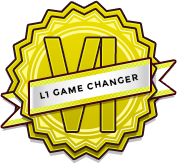
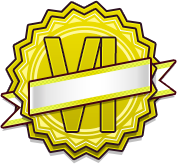
fixes #419; badge titles are now generated from the back-end

Changed region(s): [[0.226, 0.4268, 0.791, 0.6098]]

diff --git a/app/assets/stylesheets/dashboard/welcome.scss b/app/assets/stylesheets/dashboard/welcome.scss
@@ -242,16 +242,10 @@
       }
 
       div.badge {
-        width: 100%;
         height: 0;
-        position: relative;
-      }
-
-      img.badge {
         z-index: 50;
         position: absolute;
-        right: -90px;
-        width: 130px;
+        right: -80px;
         top: -40px;
 
         &.half {
@@ -261,6 +255,22 @@
         &.full {
           bottom: -70px;
         }
+
+        .title {
+          color: #232323;
+          font-size: 7pt;
+          position: absolute;
+          right: 19px;
+          top: 58px;
+          z-index: 999;
+          transform: rotate(-11deg);
+          width: 93px;
+          text-align: center;
+        }
+      }
+
+      img.badge {
+        width: 130px;
       }
 
       .course-requirement-message {

diff --git a/app/assets/javascripts/dashboard/templates/sections/welcome.html b/app/assets/javascripts/dashboard/templates/sections/welcome.html
@@ -31,8 +31,9 @@
         </div>
         <div class="progress-bar-box" ng-class="{ large : requirements.length > 1 }">
           <!-- Badge -->
-          <div class="badge show-for-medium-up">
-            <img class="badge" ng-class="{ half: requirements.length == 2, full: requirements.length === 1 }" ng-src="{{goals.badge}}">
+          <div class="badge show-for-medium-up" ng-class="{ half: requirements.length == 2, full: requirements.length === 1 }">
+            <img class="badge" ng-src="{{goals.badge}}">
+            <span class="title">{{goals.properties.lifetime_rank_title}}</span>
           </div>
           <div ng-repeat="goal in progress track by $index" repeat-end="onEnd()">
             <div
